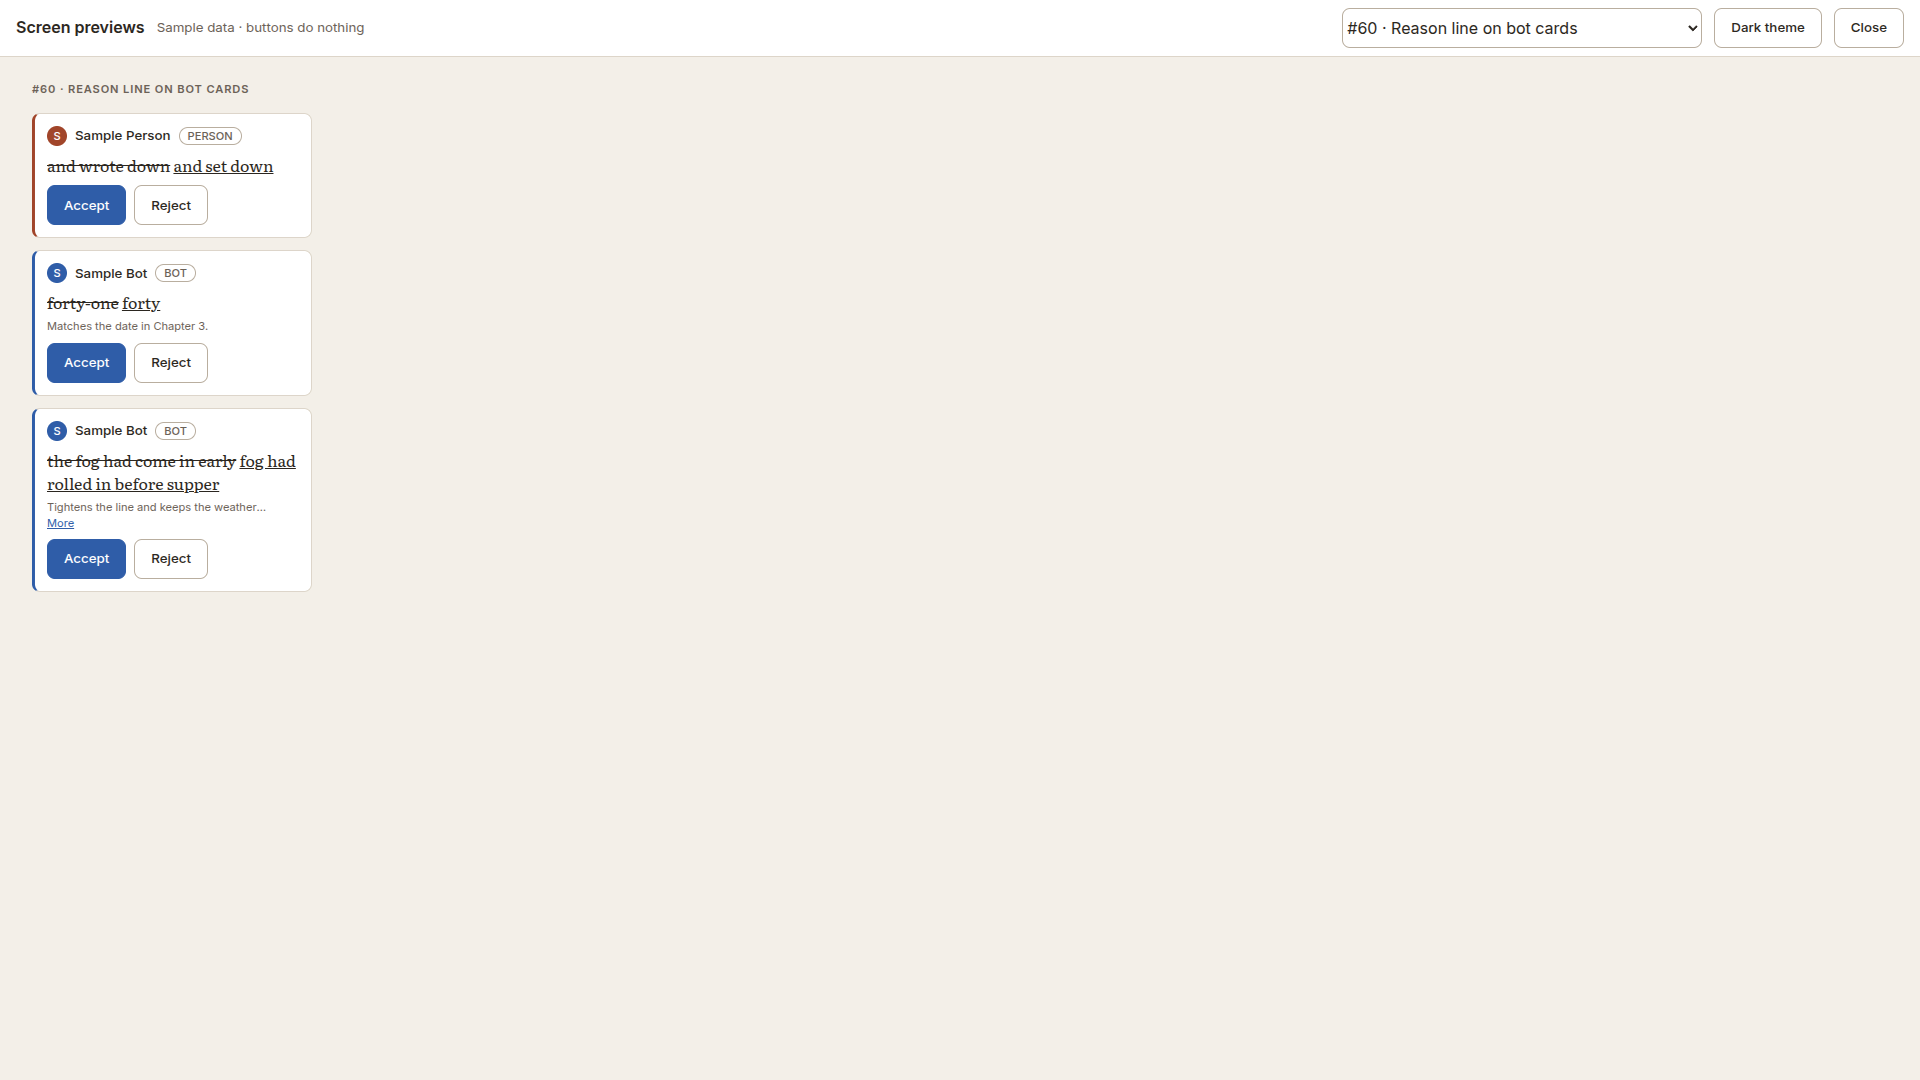
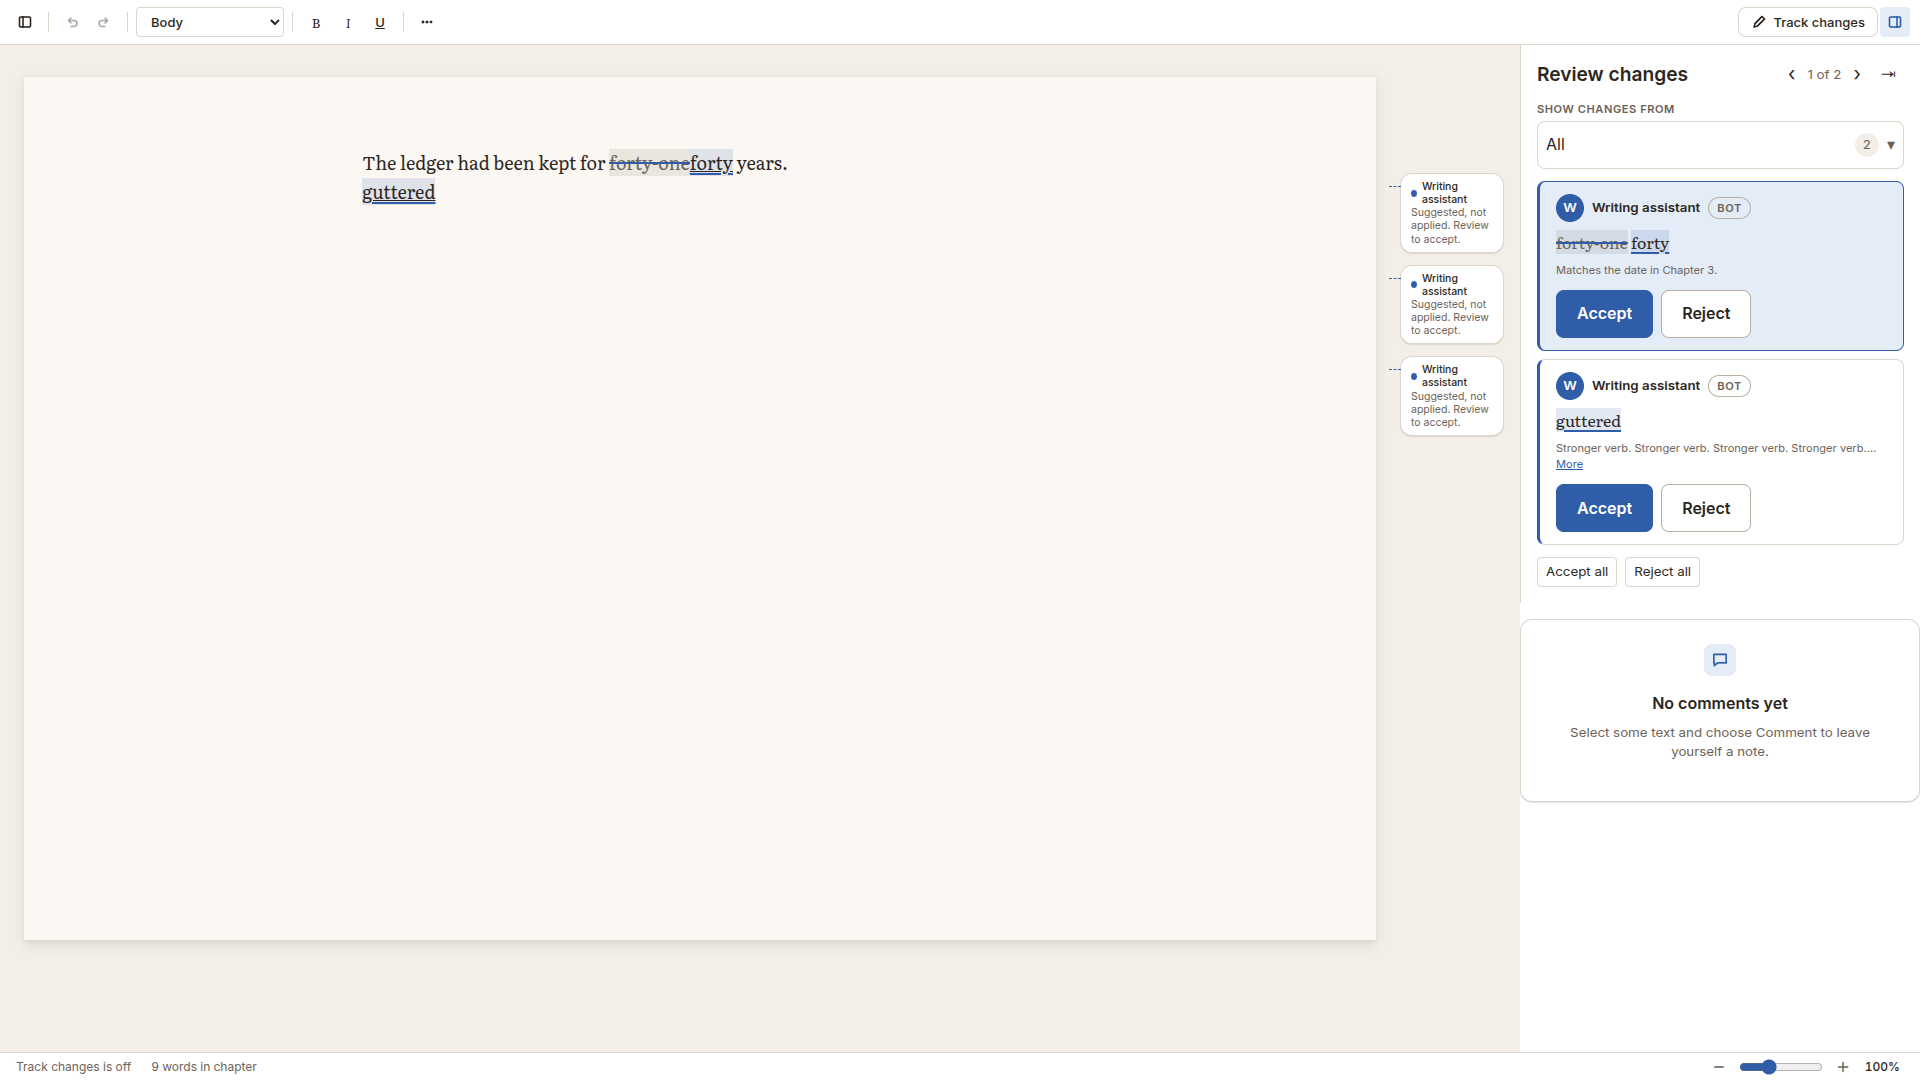
Address Designer and Genie feedback on review reason line (#60).
Reorder ReviewPanel cards, wire rationales from meta only with browser stub, and replace evidence with real Review panel shots.

diff --git a/apps/desktop/src/evidence/Rad60ReviewEvidence.vue b/apps/desktop/src/evidence/Rad60ReviewEvidence.vue
@@ -1,0 +1,75 @@
+<script setup lang="ts">
+/** Designer evidence (#60): real ReviewPanel via ManuscriptEditor, not shells preview. */
+import type { JSONContent } from '@tiptap/core';
+import ManuscriptEditor from '../ManuscriptEditor.vue';
+import { setAgents } from '../agent-names';
+
+setAgents([
+  {
+    id: 'demo',
+    name: 'Writing assistant',
+    color: '#3366ff',
+    createdAt: '2026-10-26T00:00:00Z',
+    revokedAt: null,
+    primary: true,
+  },
+]);
+
+const by = { author: 'agent:demo', ts: '2026-10-26T00:00:00Z' };
+const content: JSONContent = {
+  type: 'doc',
+  content: [
+    {
+      type: 'paragraph',
+      content: [
+        { type: 'text', text: 'The ledger had been kept for ' },
+        {
+          type: 'text',
+          text: 'forty-one',
+          marks: [{ type: 'suggestion_delete', attrs: { id: 'r1', ...by } }],
+        },
+        {
+          type: 'text',
+          text: 'forty',
+          marks: [{ type: 'suggestion_insert', attrs: { id: 'r1', ...by } }],
+        },
+        { type: 'text', text: ' years.' },
+      ],
+    },
+    {
+      type: 'paragraph',
+      content: [
+        {
+          type: 'text',
+          text: 'guttered',
+          marks: [{ type: 'suggestion_insert', attrs: { id: 'r2', ...by } }],
+        },
+      ],
+    },
+  ],
+};
+
+const suggestionReasons = {
+  r1: 'Matches the date in Chapter 3.',
+  r2: `${'Stronger verb. '.repeat(12)}`.trim(),
+};
+</script>
+
+<template>
+  <div class="rad60-evidence" data-test="rad60-review-evidence">
+    <ManuscriptEditor :content="content" :suggestion-reasons="suggestionReasons" />
+  </div>
+</template>
+
+<style scoped>
+.rad60-evidence {
+  height: 100vh;
+  min-height: 0;
+  display: flex;
+  background: var(--ct-bg);
+}
+.rad60-evidence :deep(.manuscript-editor) {
+  flex: 1;
+  min-height: 0;
+}
+</style>

diff --git a/apps/desktop/src/review/review-state.ts b/apps/desktop/src/review/review-state.ts
@@ -68,6 +68,17 @@ export interface ReviewChange {
   reason?: string;
   targets: SuggestionTarget[];
 }
+
+function mergeReason(existing: string | undefined, next: string | undefined): string | undefined {
+  const n = next?.trim();
+  if (!n) return existing?.trim() || undefined;
+  const e = existing?.trim();
+  if (!e) return n;
+  if (e === n || e.includes(n)) return e;
+  if (n.includes(e)) return n;
+  return `${e} ${n}`;
+}
+
 export function groupChanges(items: readonly SuggestionItem[]): ReviewChange[] {
   const out = new Map<string, ReviewChange>();
   for (const i of items) {
@@ -77,7 +88,7 @@ export function groupChanges(items: readonly SuggestionItem[]): ReviewChange[] {
     c.targets.push({ kind: i.kind, id: i.id });
     if (i.kind === 'suggestion_delete') c.del = (c.del ?? '') + i.text;
     else c.ins = (c.ins ?? '') + i.text;
-    if (!c.reason && i.reason) c.reason = i.reason;
+    c.reason = mergeReason(c.reason, i.reason);
   }
   return [...out.values()];
 }
@@ -91,10 +102,16 @@ export function withSuggestionReasons(
   items: readonly SuggestionItem[],
   reasons: Readonly<Record<string, string>> | undefined,
 ): SuggestionItem[] {
-  if (!reasons || !Object.keys(reasons).length) return [...items];
   return items.map((i) => {
-    const reason = reasons[i.id]?.trim();
-    return reason ? { ...i, reason } : i;
+    const fromMeta = reasons?.[i.id]?.trim();
+    const base: SuggestionItem = {
+      id: i.id,
+      kind: i.kind,
+      author: i.author,
+      ts: i.ts,
+      text: i.text,
+    };
+    return fromMeta ? { ...base, reason: fromMeta } : base;
   });
 }
 

diff --git a/apps/desktop/src/review/review-state.test.ts b/apps/desktop/src/review/review-state.test.ts
@@ -137,6 +137,28 @@ describe('review state (RAD-258)', () => {
     ]);
   });
 
+  it('groupChanges merges reasons on replace pairs (#60)', () => {
+    const items: SuggestionItem[] = [
+      {
+        id: 'r1',
+        kind: 'suggestion_delete',
+        author: 'agent:a',
+        ts: 't',
+        text: 'old',
+        reason: 'Part one.',
+      },
+      {
+        id: 'r1',
+        kind: 'suggestion_insert',
+        author: 'agent:a',
+        ts: 't',
+        text: 'new',
+        reason: 'Part two.',
+      },
+    ];
+    expect(groupChanges(items)[0]?.reason).toBe('Part one. Part two.');
+  });
+
   it('withSuggestionReasons attaches rationales by suggestion id (#60)', () => {
     const base: SuggestionItem[] = [
       {
@@ -149,5 +171,20 @@ describe('review state (RAD-258)', () => {
     ];
     expect(withSuggestionReasons(base, { s1: ' Because.' })[0]?.reason).toBe('Because.');
     expect(withSuggestionReasons(base, {})).toEqual(base);
+  });
+
+  it('withSuggestionReasons uses meta only, not mark attrs (#60)', () => {
+    const base: SuggestionItem[] = [
+      {
+        id: 's1',
+        kind: 'suggestion_insert',
+        author: 'agent:a',
+        ts: 't',
+        text: 'x',
+        reason: 'From mark attrs.',
+      },
+    ];
+    expect(withSuggestionReasons(base, { s1: 'From SQLite.' })[0]?.reason).toBe('From SQLite.');
+    expect(withSuggestionReasons(base, undefined)[0]?.reason).toBeUndefined();
   });
 });

diff --git a/apps/desktop/src/App.vue b/apps/desktop/src/App.vue
@@ -46,6 +46,7 @@ import { saveCopy } from './errors/save-copy';
 import { BUSY_NOTICE } from './errors/busy';
 import { PRODUCT_NAME } from './lib/brand';
 import ShellsPreview from './shells/ShellsPreview.vue';
+import Rad60ReviewEvidence from './evidence/Rad60ReviewEvidence.vue';
 import AppToast from './shells/AppToast.vue';
 import OpeningProgress from './shells/OpeningProgress.vue';
 import ErrorCard from './shells/ErrorCard.vue';
@@ -341,6 +342,7 @@ const choosingBook = ref(false);
 const settingsOpen = ref(false);
 // UI-shell previews (Part of #36): `?preview=<id|all>`, or Settings → Preview new screens.
 applyThemeParam(window.location.search, document.documentElement);
+const evidence = ref(new URLSearchParams(window.location.search).get('evidence'));
 const preview = ref(readPreview(window.location.search));
 function openPreview(id: 'all') {
   settingsOpen.value = false;
@@ -836,7 +838,8 @@ defineExpose({ open, closeSession });
 </script>
 
 <template>
-  <ShellsPreview v-if="preview" class="shell" :initial="preview" @close="preview = null" />
+  <Rad60ReviewEvidence v-if="evidence === 'rad60-review'" class="shell" />
+  <ShellsPreview v-else-if="preview" class="shell" :initial="preview" @close="preview = null" />
   <main v-else class="shell">
     <header v-show="!focusMode" class="topbar">
       <details ref="appMenu" class="topbar__menu" data-test="app-menu" @toggle="onAppMenuToggle">

diff --git a/apps/desktop/src/review/ReviewPanel.vue b/apps/desktop/src/review/ReviewPanel.vue
@@ -309,14 +309,14 @@ const tip = (text: string, keys: string) => `${text} (${keys})`;
           }}</span>
           <span class="pill">{{ authorKind(c.author) }}</span>
         </div>
-        <div v-if="authorKind(c.author) === 'Bot' && c.reason" class="reason" @click.stop>
-          <ReasonLine :reason="c.reason" />
-        </div>
         <p class="q">
           <span v-if="c.del" class="del" data-test="del">{{ c.del }}</span
           ><template v-if="c.del && c.ins">{{ ' ' }}</template
           ><span v-if="c.ins" class="ins" data-test="ins">{{ c.ins }}</span>
         </p>
+        <div v-if="authorKind(c.author) === 'Bot' && c.reason" class="reason" @click.stop>
+          <ReasonLine :reason="c.reason" />
+        </div>
         <div class="actions">
           <button
             type="button"
@@ -615,7 +615,7 @@ button.secondary {
   font-weight: var(--ct-weight-semibold);
 }
 .card .q {
-  margin: var(--ct-space-2) 0 var(--ct-space-3);
+  margin: var(--ct-space-2) 0 var(--ct-space-2);
   font-family: var(--ct-font-manuscript);
   font-size: var(--ct-text-md);
   line-height: 1.5;
@@ -631,6 +631,9 @@ button.secondary {
   color: var(--ct-suggest-delete-text);
   background: var(--ct-suggest-delete-bg);
   text-decoration: line-through 2px var(--ct-suggest-delete-strike) !important;
+}
+.card .reason {
+  margin-bottom: var(--ct-space-3);
 }
 .actions .primary,
 .actions .secondary {

diff --git a/apps/desktop/src/backend.ts b/apps/desktop/src/backend.ts
@@ -336,8 +336,23 @@ export async function saveSectionReviewDecisions(
   await invoke('section_save_review_decisions', { manuscriptId, sectionId, records });
 }
 
+const webSectionReviewMeta = new Map<string, SectionReviewMeta>();
+
+function emptySectionReviewMeta(): SectionReviewMeta {
+  return { comments: [], authorSavedNames: {}, suggestionReasons: {} };
+}
+
+/** Mirror persisted section review meta in browser mode (tests and dev harnesses, #60). */
+export function setWebSectionReviewMeta(sectionId: string, meta: SectionReviewMeta): void {
+  webSectionReviewMeta.set(sectionId, meta);
+}
+
+export function clearWebSectionReviewMeta(): void {
+  webSectionReviewMeta.clear();
+}
+
 export async function sectionReviewMeta(sectionId: string): Promise<SectionReviewMeta> {
-  if (!isTauri()) return { comments: [], authorSavedNames: {}, suggestionReasons: {} };
+  if (!isTauri()) return webSectionReviewMeta.get(sectionId) ?? emptySectionReviewMeta();
   return invoke<SectionReviewMeta>('section_review_meta', { sectionId });
 }
 

diff --git a/apps/desktop/src/backend.test.ts b/apps/desktop/src/backend.test.ts
@@ -1,0 +1,27 @@
+import { afterEach, describe, expect, it, vi } from 'vitest';
+import { clearWebSectionReviewMeta, sectionReviewMeta, setWebSectionReviewMeta } from './backend';
+
+vi.mock('@tauri-apps/api/core', () => ({
+  isTauri: () => false,
+  invoke: vi.fn(),
+}));
+
+describe('sectionReviewMeta browser path (#60)', () => {
+  afterEach(() => {
+    clearWebSectionReviewMeta();
+  });
+
+  it('returns seeded suggestionReasons when not in Tauri', async () => {
+    setWebSectionReviewMeta('sec-a', {
+      comments: [],
+      authorSavedNames: { 'agent:a': 'Bot' },
+      suggestionReasons: { s1: 'Stronger verb.' },
+    });
+    await expect(sectionReviewMeta('sec-a')).resolves.toMatchObject({
+      suggestionReasons: { s1: 'Stronger verb.' },
+    });
+    await expect(sectionReviewMeta('missing')).resolves.toMatchObject({
+      suggestionReasons: {},
+    });
+  });
+});

diff --git a/apps/desktop/src/review/ReviewPanel.test.ts b/apps/desktop/src/review/ReviewPanel.test.ts
@@ -216,6 +216,14 @@ describe('ReviewPanel (RAD-258)', () => {
       'Matches the date in Chapter 3.',
     );
     expect(cards[1]!.find('[data-test=reason-line]').exists()).toBe(false);
+    const botCard = cards[0]!.element;
+    expect(botCard.querySelector('.who')?.nextElementSibling?.classList.contains('q')).toBe(true);
+    expect(botCard.querySelector('.q')?.nextElementSibling?.classList.contains('reason')).toBe(
+      true,
+    );
+    expect(
+      botCard.querySelector('.reason')?.nextElementSibling?.classList.contains('actions'),
+    ).toBe(true);
     w.unmount();
 
     const longReason = 'x'.repeat(120);

diff --git a/apps/desktop/src/review/review-polish.test.ts b/apps/desktop/src/review/review-polish.test.ts
@@ -217,6 +217,9 @@ describe('review sidebar polish (#47)', () => {
     });
     await flushPromises();
     expect(w.get('[data-test=reason-line]').text()).toContain('Stronger verb.');
+    const card = w.get('[data-test=item]').element;
+    expect(card.querySelector('.who')?.nextElementSibling?.classList.contains('q')).toBe(true);
+    expect(card.querySelector('.q')?.nextElementSibling?.classList.contains('reason')).toBe(true);
     w.unmount();
   });
 });

diff --git a/docs/review-checklist.md b/docs/review-checklist.md
@@ -238,3 +238,4 @@ Format: `YYYY-MM-DD · #PR · finding · rule`
 - 2026-10-29 · #50 · Designer review (#154) · filter listbox lacked Space/arrow keyboard · roving focus on `[role=option]` like ContextMenu; Space activates focused row
 - 2026-10-29 · #50 · Designer re-review (#154) · hidden delete still showed author strike · `:has(.suggestion-filter-hidden-*) [data-suggester]` overrides after per-author paint; focus first option when filter menu opens
 - 2026-10-30 · #51 · PM review (#155) · async `manuscript_review_decisions` could overwrite in-flight accepts · merge loaded rows with current per section when the log changed since load started; drop unused `section_review_meta.decisions`
+- 2026-10-30 · #60 · Designer review (#156) · ReasonLine sat above the diff; evidence used shells preview · card order who→change→reason→actions (tc4/tc6); real ReviewPanel evidence via `?evidence=rad60-review`; rationales from meta only (`withSuggestionReasons`); browser `setWebSectionReviewMeta`; `groupChanges` merges replace-pair reasons
